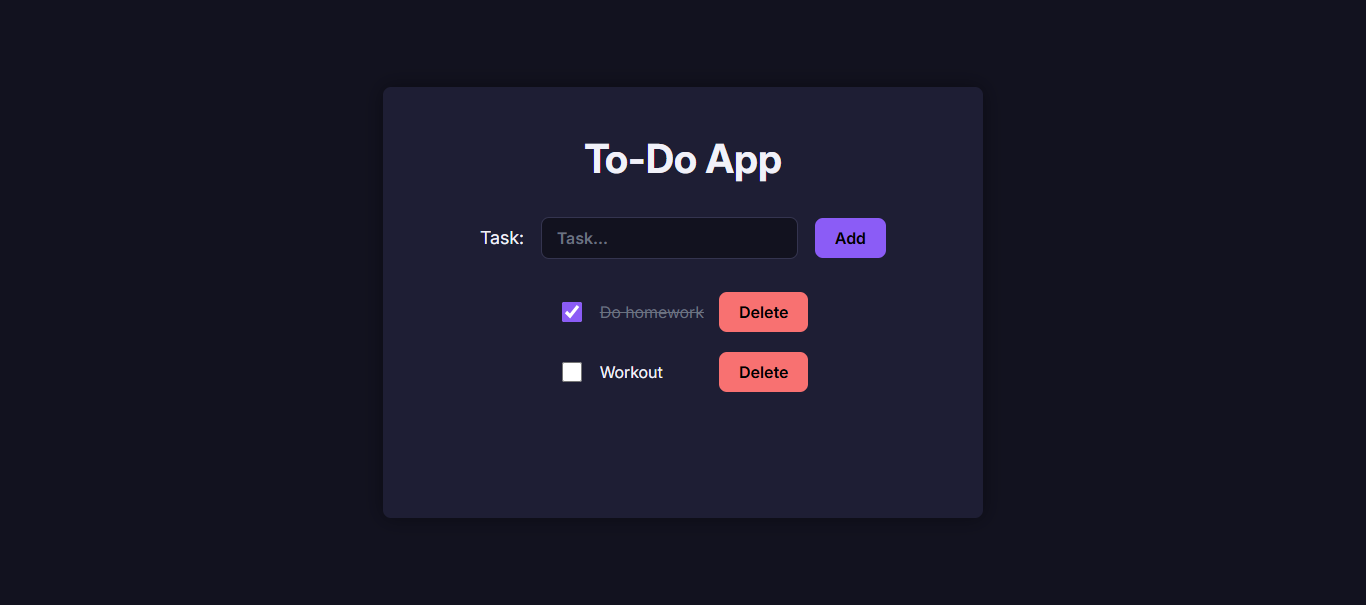
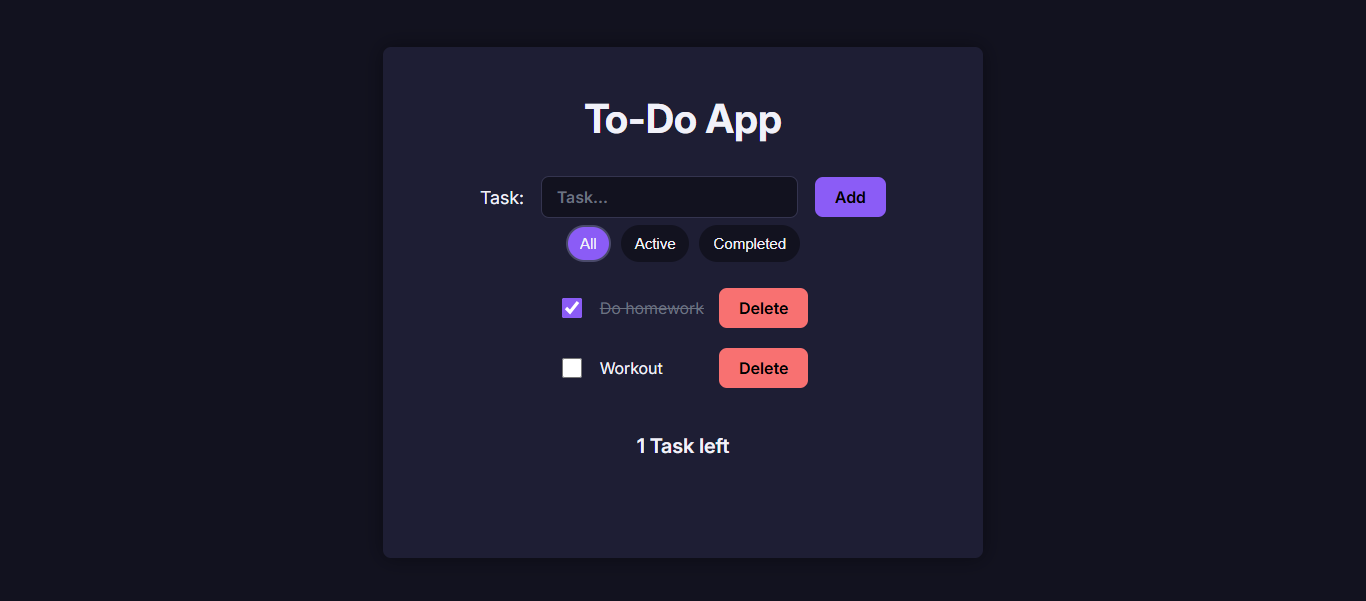
Update README.md

diff --git a/README.md b/README.md
@@ -1,33 +1,39 @@
 # To-Do App
 
-A responsive To-Do App built with HTML, CSS and JavaScript, with tasks saved in localStorage
+A responsive to-do app built with HTML, CSS and JavaScript, with tasks saved in localStorage.
 
-🔗 **Live Demo:** https://amir0rr.github.io/To-Do-App
+🔗 **Live Demo:** https://amir0rr.github.io/To-Do-App/
 
 ![Desktop preview](images/screenshots/desktop.png)
 
 ## Features
+
 - Add, delete and complete tasks
 - Tasks are saved in localStorage and stay after a page refresh
-- Empty state message when there are no tasks
-- Dark theme with a responsive layout (desktop, tablet, mobile)
-- Remaining tasks counter
 - Filter tasks by all, active and completed
+- Remaining tasks counter
+- Empty state messages that change with the selected filter
+- Dark theme with a responsive layout (desktop, tablet, mobile)
 
 ## Built With
+
 - HTML5
 - CSS3 (Flexbox, media queries)
 - JavaScript (DOM manipulation, events, array methods)
 
 ## What I Learned
-- Building responsive layout with Flexbox and media queries
+
+- Building responsive layouts with Flexbox and media queries
 - Creating and updating DOM elements with JavaScript
 - Managing a list of tasks as an array of objects (add, delete with `filter`, toggle)
 - Saving and loading data with localStorage, `JSON.stringify` and `JSON.parse`
-- Categorizing with filter and length
+- Filtering a list with a state variable, `dataset` and `classList`
+- Counting items with `filter` and `length`
 
-## Run locally
+## Run Locally
+
 ```bash
 git clone https://github.com/Amir0rr/To-Do-App.git
 ```
+
 Then open `index.html` in your browser.
